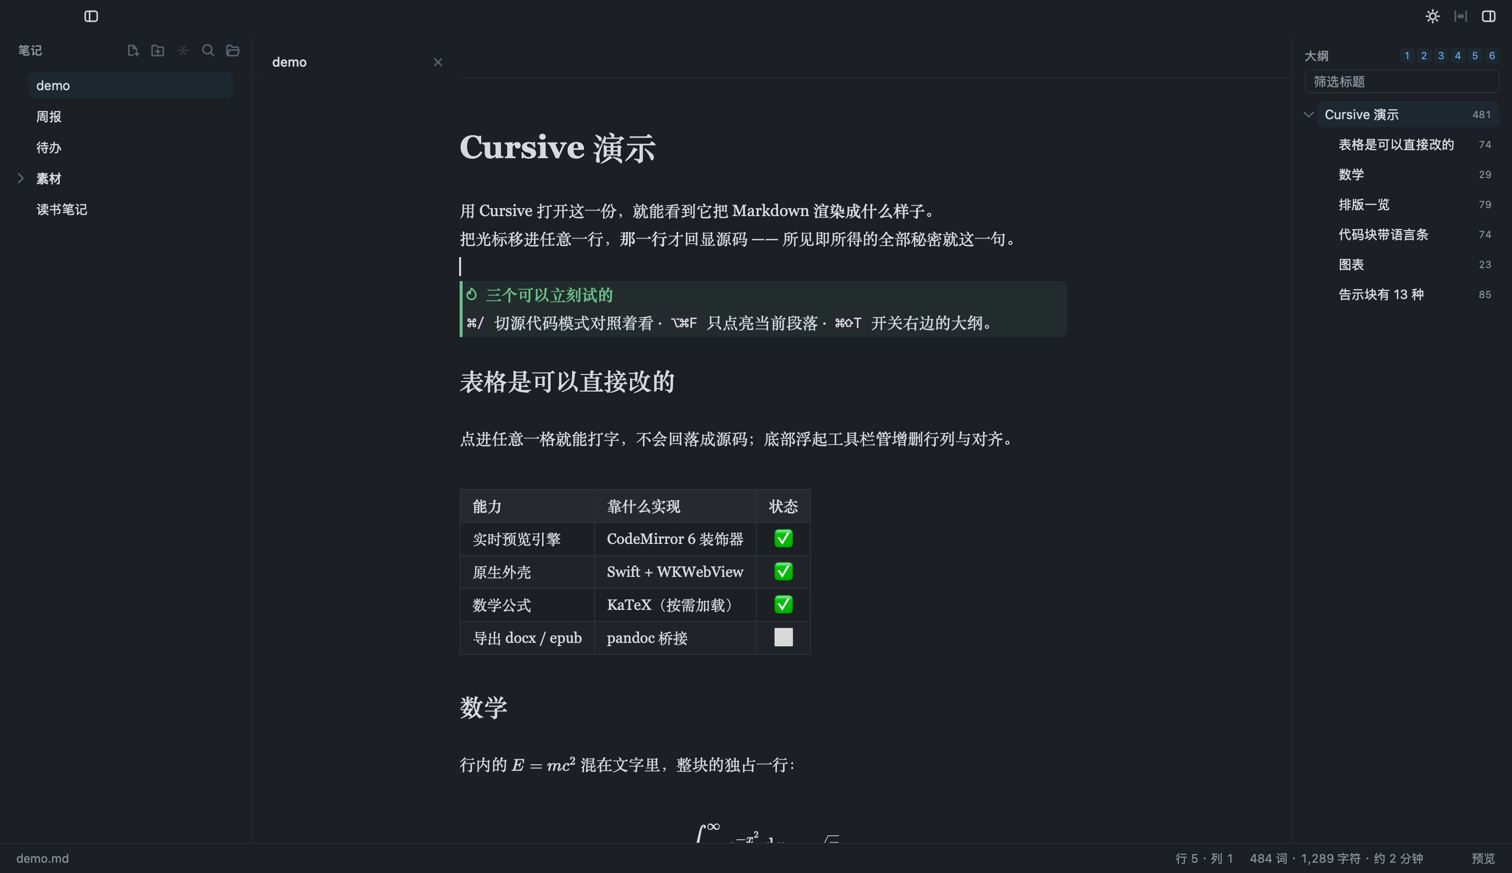
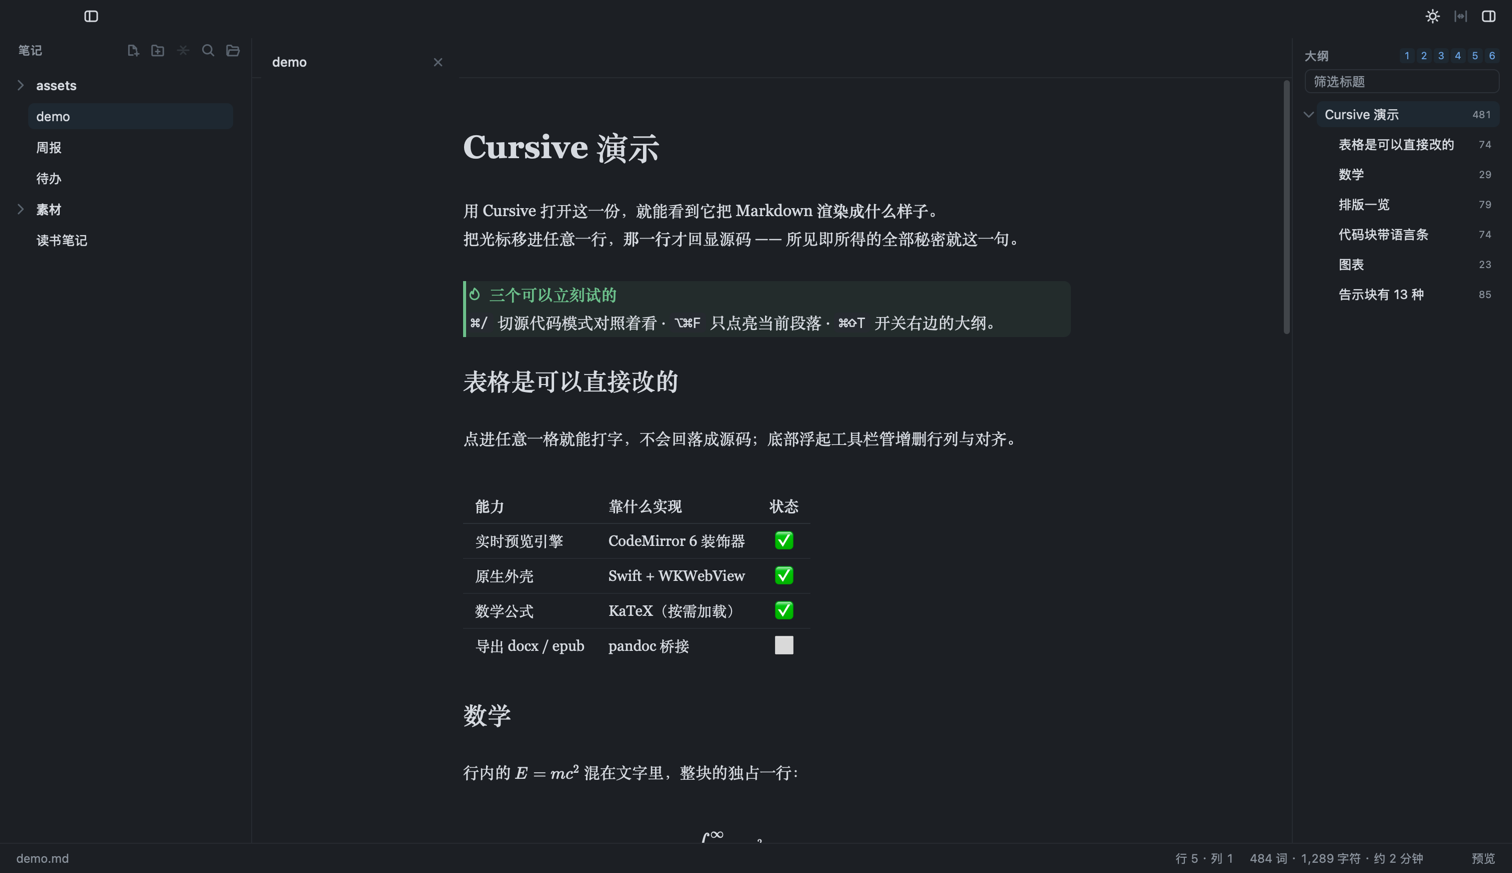
表格去网格线 + 滚动条收窄调浅
表格（编辑器与导出**同一套**，改一边就会让两处长得不一样）：
- 全网格 → 只留横线。竖线是网格里一半的噪声，而列本来就靠对齐读得出来；
  格子的编辑落点也不靠边框交代 —— 点进去有 :focus 那圈强调色环
- 表头不再铺灰底：底下那条实线（比行间发丝线重一档）已经说清楚它是表头，
  再加填色就是同一件事说两遍
- 斑马纹去掉：有了行间横线它就是第二套行分隔，两套叠着才是「表格很吵」的来源
- 印在纸上这一套尤其对 —— 网格线和斑马纹是打印机最容易糊成一片的东西。
  导出的 PDF 已经目检过

滚动条：占位 17px → 10px，可见滑块 6px，颜色由 --fg 兑出（四套主题各自适配）。

**踩到一个坑，写进注释了**：不能同时写标准属性 `scrollbar-width`。这一版 WebKit 里
只要设了它，整套 ::-webkit-scrollbar 就被忽略、回落成原生那根 —— 实测
`scrollbar-width: thin` 下占位仍是 17px，一点没收窄；去掉它只留 -webkit- 那套，
同一份 CSS 立刻变成 8/10px。看着像双保险，实际是前者把后者关掉了。
（量法：`scrollDOM.offsetWidth - scrollDOM.clientWidth`，不是肉眼看 ——
macOS 的浮层滚动条静止时会淡出，截图根本拍不到。）

代价写在注释里：给 ::-webkit-scrollbar 写规则会让 WebKit 改用「占位的」自定义滚动条，
系统偏好设成「滚动时显示」的用户原本这里 0 占位，现在会有一条常驻细槽。在这个
编辑器里不亏 —— 正文居中定宽，槽宽不动版心，反而少了内容超过一屏时版面横跳那一下。

README 截图按新界面重拍。验证：release.sh 全绿

diff --git a/src/renderer/themes/base.css b/src/renderer/themes/base.css
@@ -358,6 +358,41 @@ body {
   display: none;
 }
 
+/* ---- 滚动条 ----
+   默认那根有 17px 宽（实测 `scrollDOM.offsetWidth - clientWidth`），比页面上任何
+   一条线都粗，在一屏白纸的右边格外扎眼。这里收到 10px 槽 / 6px 可见滑块，
+   颜色从 --fg 兑出来 —— 浅色里是淡灰、暗色里是淡白、护眼里是淡棕，四套主题不用各写一遍。
+
+   **不要同时写标准属性 `scrollbar-width`**：这一版 WebKit 里只要设了它，
+   下面整套 ::-webkit-scrollbar 就被忽略，回落成原生那根（实测仍是 17px，
+   `scrollbar-width: thin` 一点没收窄）。只留 -webkit- 这一套才真正管用 ——
+   同一份 CSS 两条路，看着像双保险，实际是后者把前者关掉了。
+
+   代价说清楚：一旦给 ::-webkit-scrollbar 写了规则，WebKit 就改用「占位的」
+   自定义滚动条。系统偏好里设成「滚动时显示」的用户，原本这里是 0 占位的浮层条，
+   现在会变成常驻的一条细槽。在这个编辑器里不亏 —— 正文是居中定宽的，
+   槽宽变化不动版心，反而少了「内容长过一屏时版面突然横跳」那一下。
+
+   浮动格式栏那条横向的自己 display:none 掉了，选择器更具体，不受这里影响 */
+::-webkit-scrollbar {
+  width: 10px;
+  height: 10px;
+}
+::-webkit-scrollbar-track,
+::-webkit-scrollbar-corner {
+  background: transparent;
+}
+::-webkit-scrollbar-thumb {
+  /* 2px 透明边 + background-clip: content-box：可见滑块 6px，两侧留呼吸 */
+  background-color: color-mix(in srgb, var(--fg) 20%, transparent);
+  background-clip: content-box;
+  border: 2px solid transparent;
+  border-radius: 99px;
+}
+::-webkit-scrollbar-thumb:hover {
+  background-color: color-mix(in srgb, var(--fg) 34%, transparent);
+}
+
 .fb-btn,
 .fb-pick {
   flex: none;

diff --git a/src/renderer/themes/live-preview.css b/src/renderer/themes/live-preview.css
@@ -206,8 +206,11 @@ body.cursive-em-italic .cm-md-em {
    光标和选区归浏览器画 —— 编辑器此时是失焦的，drawSelection 不会再出一个假光标 */
 .cm-lp-tableview th,
 .cm-lp-tableview td {
-  border: 1px solid var(--border);
-  padding: 5px 12px;
+  /* 只留横线，不画竖线：竖线是网格的一半噪声，而列本来就靠对齐读得出来。
+     格子的编辑落点不靠边框交代 —— 点进去有 :focus 那圈强调色环 */
+  border: none;
+  border-bottom: 1px solid var(--divider);
+  padding: 6px 12px;
   -webkit-user-select: text;
   user-select: text;
   caret-color: var(--fg);
@@ -224,12 +227,13 @@ body.cursive-em-italic .cm-md-em {
   background-color: var(--sel) !important;
 }
 .cm-lp-tableview thead th {
-  background: var(--code-bg);
+  /* 表头不再铺灰底：底下那条实线（比行间的发丝线重一档）已经说清楚它是表头，
+     再加一块填色就是同一件事说两遍 */
+  border-bottom: 1px solid var(--border);
   font-weight: 600;
 }
-.cm-lp-tableview tbody tr:nth-child(even) {
-  background: color-mix(in srgb, var(--code-bg) 45%, transparent);
-}
+/* 斑马纹去掉：有了行间横线，它是第二套行分隔，两套叠在一起才是「表格很吵」的来源 */
+.cm-lp-tableview tbody tr:last-child td { border-bottom: none; }
 
 /* 格内行内语法（P2-6）：样式借正文那几个类（.cm-lp-inline-code / -highlight / -sup /
    -sub / -link），这里只补裸标签和「格子里不该有手型」这类差异 */

diff --git a/src/renderer/export/style.ts b/src/renderer/export/style.ts
@@ -19,6 +19,8 @@ export const EXPORT_CSS = `
   --mark-idle: #9aa3ae;
   --accent: #0969da;
   --border: #e6e8eb;
+  /* 与 themes/base.css 同名同值：比 --border 更淡的一档，表格行间用它 */
+  --divider: #ededf0;
   --code-bg: #f4f5f7;
   --surface: #fafbfc;
   --match: rgb(255 196 0 / 32%);
@@ -194,14 +196,15 @@ body {
   font-size: 0.92em;
   line-height: 1.55;
 }
+/* 表格与编辑器里保持一致：只留横线、表头不铺底、不要斑马纹。
+   印在纸上这一套尤其对 —— 网格线和斑马纹是打印机最容易糊成一片的东西 */
 .cursive-doc th, .cursive-doc td {
-  border: 1px solid var(--border);
-  padding: 5px 12px;
+  border: none;
+  border-bottom: 1px solid var(--divider);
+  padding: 6px 12px;
 }
-.cursive-doc thead th { background: var(--code-bg); font-weight: 600; }
-.cursive-doc tbody tr:nth-child(even) {
-  background: color-mix(in srgb, var(--code-bg) 45%, transparent);
-}
+.cursive-doc thead th { border-bottom: 1px solid var(--border); font-weight: 600; }
+.cursive-doc tbody tr:last-child td { border-bottom: none; }
 
 /* ---------- 列表 ---------- */
 .cursive-doc ul, .cursive-doc ol { padding-left: 1.6em; margin: 0.7em 0; }
